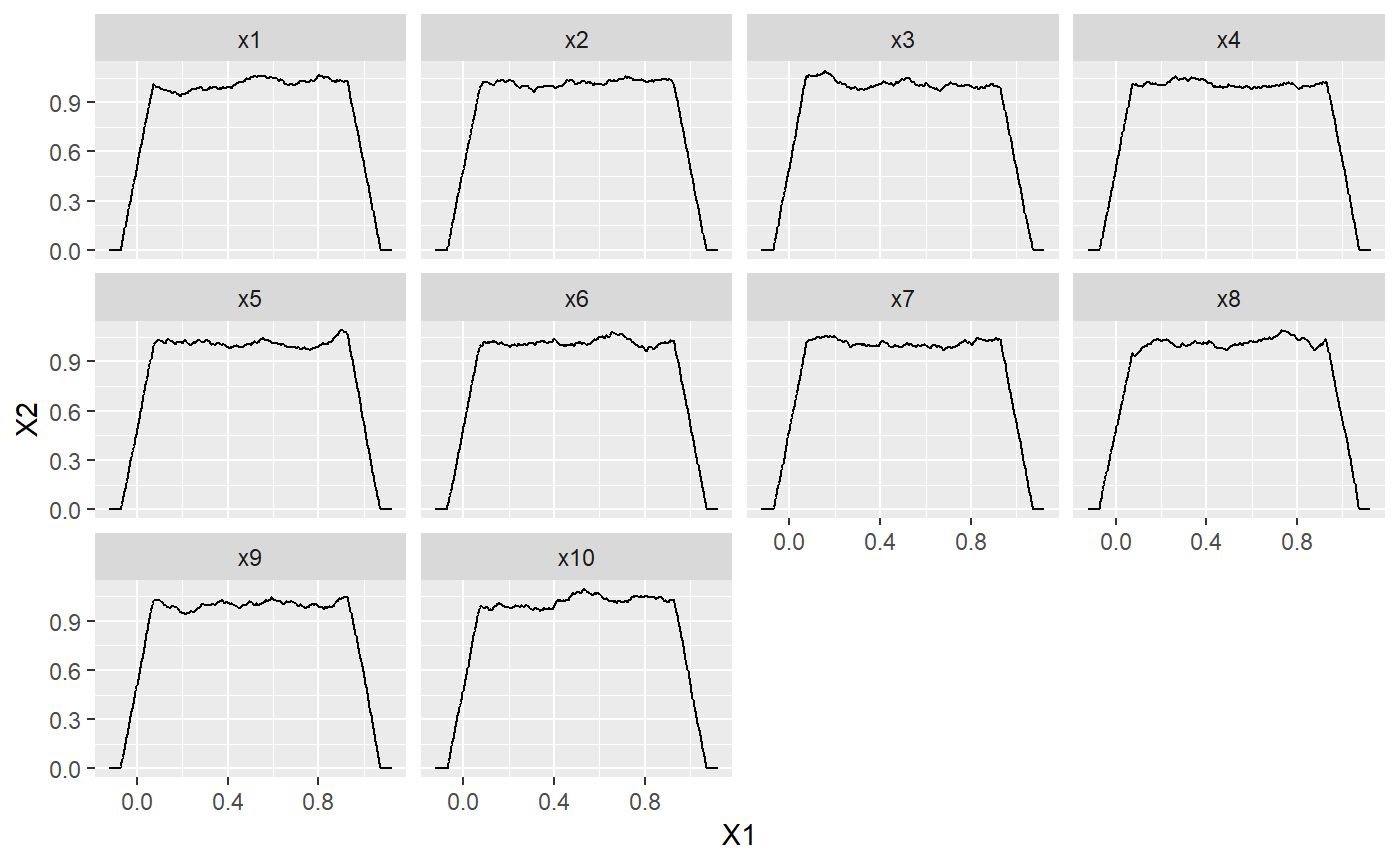
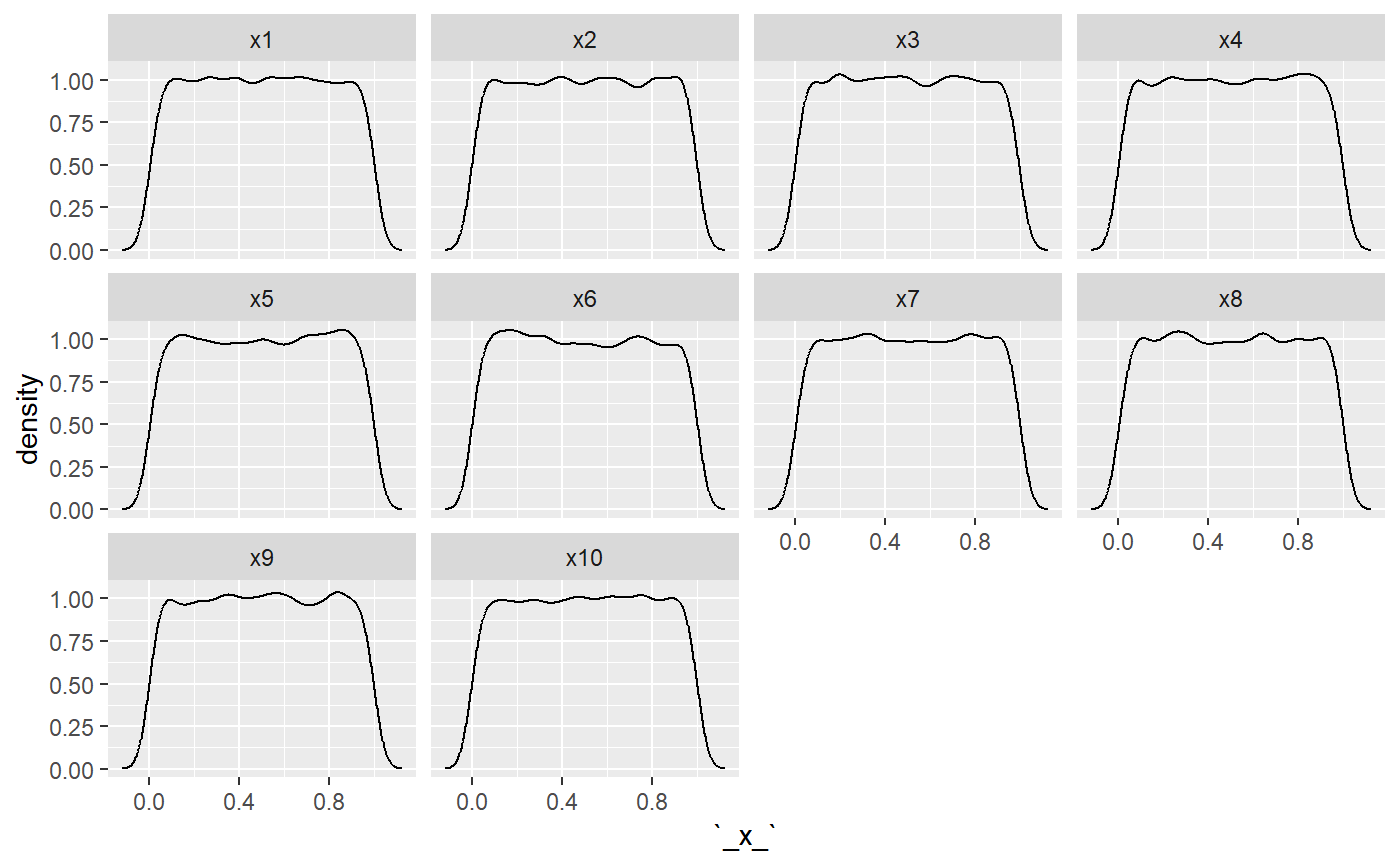
update site

diff --git a/docs/articles/problems-with-kernel-density-estimation.html b/docs/articles/problems-with-kernel-density-estimation.html
@@ -76,7 +76,7 @@
       <h1>Problems with kernel density estimation</h1>
                         <h4 class="author">Anna Kozak</h4>
             
-            <h4 class="date">2019-03-05</h4>
+            <h4 class="date">2019-03-06</h4>
       
       
       <div class="hidden name"><code>problems-with-kernel-density-estimation.Rmd</code></div>
@@ -116,14 +116,14 @@ g &lt;-<span class="st"> </span><span class="kw">ldply</span>(gestosc, data.fram
 g<span class="op">$</span>X1 &lt;-<span class="st"> </span><span class="kw"><a href="https://www.rdocumentation.org/packages/base/topics/numeric">as.numeric</a></span>(<span class="kw"><a href="https://www.rdocumentation.org/packages/base/topics/character">as.character</a></span>(g<span class="op">$</span>X1))
 g<span class="op">$</span>X2 &lt;-<span class="st"> </span><span class="kw"><a href="https://www.rdocumentation.org/packages/base/topics/numeric">as.numeric</a></span>(<span class="kw"><a href="https://www.rdocumentation.org/packages/base/topics/character">as.character</a></span>(g<span class="op">$</span>X2))
 
-<span class="kw">ggplot</span>(g, <span class="kw">aes</span>(<span class="dt">x =</span> X1, <span class="dt">y =</span> X2)) <span class="op">+</span><span class="st"> </span><span class="kw">geom_line</span>() <span class="op">+</span><span class="st"> </span><span class="kw">facet_wrap</span>(<span class="op">~</span>X3) <span class="op">+</span><span class="st"> </span><span class="kw">labs</span>(<span class="dt">x =</span> <span class="st">"value"</span>, <span class="dt">y =</span> <span class="st">"density"</span>)</code></pre></div>
-<p><img src="problems-with-kernel-density-estimation_files/figure-html/unnamed-chunk-2-1.png" width="700"></p>
+<span class="kw">ggplot</span>(g, <span class="kw">aes</span>(<span class="dt">x =</span> X1, <span class="dt">y =</span> X2)) <span class="op">+</span><span class="st"> </span><span class="kw">geom_line</span>() <span class="op">+</span><span class="st"> </span><span class="kw">facet_wrap</span>(<span class="op">~</span>X3) <span class="op">+</span><span class="st"> </span><span class="kw">labs</span>(<span class="dt">x =</span> <span class="st">"`_x_`"</span>, <span class="dt">y =</span> <span class="st">"density"</span>)</code></pre></div>
+<p><img src="problems-with-kernel-density-estimation_files/figure-html/unnamed-chunk-3-1.png" width="700"></p>
 </div>
-<div id="uniform-kernel" class="section level4">
+<div id="gaussian-kernel-with-bw-sj" class="section level4">
 <h4 class="hasAnchor">
-<a href="#uniform-kernel" class="anchor"></a>Uniform Kernel</h4>
+<a href="#gaussian-kernel-with-bw-sj" class="anchor"></a>Gaussian Kernel with bw = “SJ”</h4>
 <div class="sourceCode"><pre class="sourceCode r"><code class="sourceCode r">variableDensity &lt;-<span class="st"> </span><span class="kw"><a href="https://www.rdocumentation.org/packages/base/topics/apply">apply</a></span>(df, <span class="dv">2</span>, <span class="cf">function</span>(x){
-  dx &lt;-<span class="st"> </span><span class="kw"><a href="https://www.rdocumentation.org/packages/stats/topics/density">density</a></span>(x, <span class="dt">kernel =</span> <span class="st">"rectangular"</span>)
+  dx &lt;-<span class="st"> </span><span class="kw"><a href="https://www.rdocumentation.org/packages/stats/topics/density">density</a></span>(x, <span class="dt">bw =</span> <span class="st">"SJ"</span>)
 })
 
 ##for variable x1,...,x10
@@ -139,88 +139,197 @@ g1<span class="op">$</span>X1 &lt;-<span class="st"> </span><span class="kw"><a 
 g1<span class="op">$</span>X2 &lt;-<span class="st"> </span><span class="kw"><a href="https://www.rdocumentation.org/packages/base/topics/numeric">as.numeric</a></span>(<span class="kw"><a href="https://www.rdocumentation.org/packages/base/topics/character">as.character</a></span>(g1<span class="op">$</span>X2))
 
 
-<span class="kw">ggplot</span>(g1, <span class="kw">aes</span>(<span class="dt">x =</span> X1, <span class="dt">y =</span> X2)) <span class="op">+</span><span class="st"> </span><span class="kw">geom_line</span>() <span class="op">+</span><span class="st"> </span><span class="kw">facet_wrap</span>(<span class="op">~</span>X3)</code></pre></div>
-<p><img src="problems-with-kernel-density-estimation_files/figure-html/unnamed-chunk-3-1.png" width="700"></p>
-<div class="sourceCode"><pre class="sourceCode r"><code class="sourceCode r"><span class="co"># library("DALEX")</span>
-<span class="co"># library("randomForest")</span>
-<span class="co"># library("ceterisParibus")</span>
-<span class="co"># library(gridExtra)</span>
-<span class="co"># library(grid)</span>
-<span class="co"># set.seed(59)</span>
-<span class="co"># </span>
-<span class="co"># ##############################################</span>
-<span class="co"># ##############################################3</span>
-<span class="co"># ########################################3</span>
-<span class="co"># apartments_rf_model &lt;- randomForest(m2.price ~ construction.year + surface + floor +</span>
-<span class="co">#                                       no.rooms, data = apartments)</span>
-<span class="co"># </span>
-<span class="co"># explainer_rf &lt;- explain(apartments_rf_model,</span>
-<span class="co">#                         data = apartmentsTest[,2:5], y = apartmentsTest$m2.price)</span>
-<span class="co"># new_apartment &lt;- apartmentsTest[1, ]</span>
-<span class="co"># new_apartment</span>
-<span class="co"># cp_rf &lt;- ceteris_paribus(explainer_rf, observation = new_apartment[,2:5])</span>
-<span class="co"># cp_rf</span>
-<span class="co"># plot(cp_rf)</span>
-<span class="co"># </span>
-<span class="co"># </span>
-<span class="co"># #####  test cp plot #####################3</span>
-<span class="co"># cp_rf[which(cp_rf$`_vname_` == "no.rooms"), ] -&gt; j</span>
-<span class="co"># ggplot(j, aes(x = no.rooms, y = `_yhat_`)) + geom_line()</span>
-<span class="co"># ##############################</span>
-<span class="co"># jj &lt;- j[,c("no.rooms", '_yhat_')]</span>
-<span class="co"># jj_unique &lt;- unique(jj)</span>
-<span class="co"># ggplot(jj_unique, aes(x = no.rooms, y = `_yhat_`)) + geom_line()</span>
-<span class="co"># </span>
-<span class="co"># </span>
-<span class="co"># wyn2 &lt;- LocalVariableImportanceViaOscillations(cp_rf, absolute_deviation = TRUE, point = TRUE, density = TRUE, apartments[,2:5])</span>
-<span class="co"># wyn3 &lt;- LocalVariableImportanceViaOscillations(cp_rf,absolute_deviation = TRUE, point = TRUE, density = TRUE, apartments[,2:5], bw_density = "SJ")</span>
-<span class="co"># plot1(cp_rf, apartments[,2:5])</span>
-<span class="co"># plot2(cp_rf, apartments[,2:5])</span>
-<span class="co"># </span>
-<span class="co"># hist(apartments$no.rooms, breaks = 100)</span>
-<span class="co"># apar</span>
-<span class="co"># </span>
-<span class="co"># </span>
-<span class="co"># ####</span>
-<span class="co"># </span>
-<span class="co"># library(mlbench)</span>
-<span class="co"># library(plyr)</span>
-<span class="co"># library(ggplot2)</span>
-<span class="co"># </span>
-<span class="co"># data &lt;- mlbench.friedman1(10000)</span>
-<span class="co"># y &lt;- data$y</span>
-<span class="co"># x &lt;- data$x</span>
-<span class="co"># df &lt;- data.frame(y = y , x)</span>
-<span class="co"># names(df) &lt;- tolower(names(df))</span>
-<span class="co"># </span>
-<span class="co"># friedman_rf_model &lt;- randomForest(y ~., data = df)</span>
-<span class="co"># explainer_rf &lt;- explain(friedman_rf_model, data = df[,2:11], y =df$y)</span>
-<span class="co"># #mlbench.friedman1(1)</span>
-<span class="co"># new_friedmann &lt;- data.frame("y" = 8.924793, "x1" = 0.9002915, "x2" = 0.07000687, "x3" = 0.2255303,</span>
-<span class="co">#                             "x4" = 0.3825585, "x5" = 0.2023882, "x6" = 0.389687, "x7" = 0.04077074,</span>
-<span class="co">#                             "x8" = 0.2666487, "x9" = 0.144826, "x10" = 0.4970784)</span>
-<span class="co"># </span>
-<span class="co"># cp_rf &lt;- ceteris_paribus(explainer_rf, observations = new_friedmann[,2:11])</span>
-<span class="co"># </span>
-<span class="co"># cp_rf</span>
-<span class="co"># plot(cp_rf)</span>
-<span class="co"># </span>
-<span class="co"># wyn &lt;- LocalVariableImportanceViaOscillations(cp = cp_rf, df = df[2:11], absolute_deviation = TRUE, point = TRUE, density = TRUE, kernel_density = "gaussian", bw_density = "nrd0")</span>
-<span class="co"># wyn1 &lt;- LocalVariableImportanceViaOscillations(cp = cp_rf, df = df[2:11], absolute_deviation = TRUE, point = TRUE, density = TRUE, kernel_density = "gaussian", bw_density = "SJ")</span>
-<span class="co"># </span>
-<span class="co"># </span>
-<span class="co"># </span>
-<span class="co"># a &lt;- LocalVariableImportanceViaOscillations(cp_rf, absolute_deviation = TRUE, point = TRUE, density = TRUE, df[,2:11])</span>
-<span class="co"># b &lt;- LocalVariableImportanceViaOscillations1(cp_rf,absolute_deviation = TRUE, point = TRUE, density = TRUE, df[,2:11])</span>
-<span class="co"># plot(a, type="l")</span>
-<span class="co"># lines(b, col="red")</span>
-<span class="co"># plot1(cp_rf, df[,2:11])</span>
-<span class="co"># plot2(cp_rf, df[,2:11])</span>
-<span class="co"># </span>
-<span class="co"># </span>
-<span class="co"># p1 &lt;- vip(friedman_rf_model, method = "pdp", feature_names = paste0("x", 1:10)) +</span>
-<span class="co">#   labs(x = "", y = "Importance", title = "PDP method") +</span>
-<span class="co">#   theme_light()</span></code></pre></div>
+<span class="kw">ggplot</span>(g1, <span class="kw">aes</span>(<span class="dt">x =</span> X1, <span class="dt">y =</span> X2)) <span class="op">+</span><span class="st"> </span><span class="kw">geom_line</span>() <span class="op">+</span><span class="st"> </span><span class="kw">facet_wrap</span>(<span class="op">~</span>X3) <span class="op">+</span><span class="st"> </span><span class="kw">labs</span>(<span class="dt">x =</span> <span class="st">"`_x_`"</span>, <span class="dt">y =</span> <span class="st">"density"</span>)</code></pre></div>
+<p><img src="problems-with-kernel-density-estimation_files/figure-html/unnamed-chunk-4-1.png" width="700"></p>
+<div class="sourceCode"><pre class="sourceCode r"><code class="sourceCode r"><span class="kw"><a href="https://www.rdocumentation.org/packages/base/topics/library">library</a></span>(<span class="st">"DALEX"</span>)
+<span class="kw"><a href="https://www.rdocumentation.org/packages/base/topics/library">library</a></span>(<span class="st">"randomForest"</span>)
+<span class="kw"><a href="https://www.rdocumentation.org/packages/base/topics/library">library</a></span>(<span class="st">"ceterisParibus"</span>)
+<span class="kw"><a href="https://www.rdocumentation.org/packages/base/topics/library">library</a></span>(gridExtra)
+<span class="kw"><a href="https://www.rdocumentation.org/packages/base/topics/library">library</a></span>(grid)
+<span class="kw"><a href="https://www.rdocumentation.org/packages/base/topics/Random">set.seed</a></span>(<span class="dv">59</span>)</code></pre></div>
+<div id="local-variable-importance-via-oscillations-kernel-gaussian-bw-nrd0" class="section level5">
+<h5 class="hasAnchor">
+<a href="#local-variable-importance-via-oscillations-kernel-gaussian-bw-nrd0" class="anchor"></a>Local Variable Importance Via Oscillations, kernel = “gaussian”, bw = “nrd0”</h5>
+<div class="sourceCode"><pre class="sourceCode r"><code class="sourceCode r">friedman_rf_model &lt;-<span class="st"> </span><span class="kw">randomForest</span>(y <span class="op">~</span>., <span class="dt">data =</span> df)
+explainer_rf &lt;-<span class="st"> </span><span class="kw">explain</span>(friedman_rf_model, <span class="dt">data =</span> df[,<span class="dv">2</span><span class="op">:</span><span class="dv">11</span>], <span class="dt">y =</span>df<span class="op">$</span>y)
+new_friedmann &lt;-<span class="st"> </span><span class="kw"><a href="https://www.rdocumentation.org/packages/base/topics/data.frame">data.frame</a></span>(<span class="st">"y"</span> =<span class="st"> </span><span class="fl">8.924793</span>, <span class="st">"x1"</span> =<span class="st"> </span><span class="fl">0.9002915</span>, <span class="st">"x2"</span> =<span class="st"> </span><span class="fl">0.07000687</span>, <span class="st">"x3"</span> =<span class="st"> </span><span class="fl">0.2255303</span>,
+                            <span class="st">"x4"</span> =<span class="st"> </span><span class="fl">0.3825585</span>, <span class="st">"x5"</span> =<span class="st"> </span><span class="fl">0.2023882</span>, <span class="st">"x6"</span> =<span class="st"> </span><span class="fl">0.389687</span>, <span class="st">"x7"</span> =<span class="st"> </span><span class="fl">0.04077074</span>,
+                            <span class="st">"x8"</span> =<span class="st"> </span><span class="fl">0.2666487</span>, <span class="st">"x9"</span> =<span class="st"> </span><span class="fl">0.144826</span>, <span class="st">"x10"</span> =<span class="st"> </span><span class="fl">0.4970784</span>)
+
+cp_rf &lt;-<span class="st"> </span><span class="kw">ceteris_paribus</span>(explainer_rf, <span class="dt">observations =</span> new_friedmann[,<span class="dv">2</span><span class="op">:</span><span class="dv">11</span>])
+
+<span class="kw"><a href="../reference/plot.html">plot</a></span>(cp_rf)</code></pre></div>
+<p><img src="problems-with-kernel-density-estimation_files/figure-html/unnamed-chunk-6-1.png" width="700"></p>
+<div class="sourceCode"><pre class="sourceCode r"><code class="sourceCode r">wyn &lt;-<span class="st"> </span><span class="kw"><a href="../reference/LocalVariableImportanceViaOscillations.html">LocalVariableImportanceViaOscillations</a></span>(<span class="dt">cp =</span> cp_rf, <span class="dt">df =</span> df[, <span class="dv">2</span><span class="op">:</span><span class="dv">11</span>])
+<span class="co">#&gt; Local Variable Importance Via Oscillations with parameters: </span>
+<span class="co">#&gt; absolute_deviation =  TRUE </span>
+<span class="co">#&gt; point =  TRUE </span>
+<span class="co">#&gt; density =  FALSE </span>
+<span class="co">#&gt; kernel_density =  gaussian </span>
+<span class="co">#&gt; bw_density =  nrd0 </span>
+<span class="co">#&gt; </span>
+<span class="co">#&gt; Results: </span>
+<span class="co">#&gt; x1: 35.0514916972774</span>
+<span class="co">#&gt;  x2: 510.554030709738</span>
+<span class="co">#&gt;  x3: 93.3703495182047</span>
+<span class="co">#&gt;  x4: 254.097614518194</span>
+<span class="co">#&gt;  x5: 182.001680337295</span>
+<span class="co">#&gt;  x6: 3.36191797793769</span>
+<span class="co">#&gt;  x7: 15.5619443925594</span>
+<span class="co">#&gt;  x8: 6.61663628342901</span>
+<span class="co">#&gt;  x9: 9.14760492541785</span>
+<span class="co">#&gt;  x10: 6.34163715274263</span>
+<span class="kw">ggplot</span>(wyn<span class="op">$</span>result, <span class="kw">aes</span>(<span class="dt">x =</span> variable_name, <span class="dt">y =</span> measure)) <span class="op">+</span><span class="st"> </span><span class="kw">geom_bar</span>(<span class="dt">stat=</span><span class="st">"identity"</span>) <span class="op">+</span><span class="st"> </span><span class="kw">labs</span>(<span class="dt">x =</span> <span class="st">"`_x_`"</span>, <span class="dt">y =</span> <span class="st">"measure"</span>)</code></pre></div>
+<p><img src="problems-with-kernel-density-estimation_files/figure-html/unnamed-chunk-7-1.png" width="700"></p>
+</div>
+<div id="local-variable-importance-via-oscillations-kernel-gaussian-bw-sj-link" class="section level5">
+<h5 class="hasAnchor">
+<a href="#local-variable-importance-via-oscillations-kernel-gaussian-bw-sj-link" class="anchor"></a>Local Variable Importance Via Oscillations, kernel = “gaussian”, bw = “SJ” <a href="https://www.researchgate.net/publication/224817413_A_Reliable_Data-Based_Bandwidth_Selection_Method_for_Kernel_Density_Estimation">link</a>
+</h5>
+<div class="sourceCode"><pre class="sourceCode r"><code class="sourceCode r">wyn1 &lt;-<span class="st"> </span><span class="kw"><a href="../reference/LocalVariableImportanceViaOscillations.html">LocalVariableImportanceViaOscillations</a></span>(<span class="dt">cp =</span> cp_rf, <span class="dt">df =</span> df[,<span class="dv">2</span><span class="op">:</span><span class="dv">11</span>], <span class="dt">kernel =</span> <span class="st">"rectangular"</span>, <span class="dt">bw_density =</span> <span class="st">"SJ"</span>)
+<span class="co">#&gt; Local Variable Importance Via Oscillations with parameters: </span>
+<span class="co">#&gt; absolute_deviation =  TRUE </span>
+<span class="co">#&gt; point =  TRUE </span>
+<span class="co">#&gt; density =  FALSE </span>
+<span class="co">#&gt; kernel_density =  rectangular </span>
+<span class="co">#&gt; bw_density =  SJ </span>
+<span class="co">#&gt; </span>
+<span class="co">#&gt; Results: </span>
+<span class="co">#&gt; x1: 35.0514916972774</span>
+<span class="co">#&gt;  x2: 510.554030709738</span>
+<span class="co">#&gt;  x3: 93.3703495182047</span>
+<span class="co">#&gt;  x4: 254.097614518194</span>
+<span class="co">#&gt;  x5: 182.001680337295</span>
+<span class="co">#&gt;  x6: 3.36191797793769</span>
+<span class="co">#&gt;  x7: 15.5619443925594</span>
+<span class="co">#&gt;  x8: 6.61663628342901</span>
+<span class="co">#&gt;  x9: 9.14760492541785</span>
+<span class="co">#&gt;  x10: 6.34163715274263</span>
+<span class="kw">ggplot</span>(wyn1<span class="op">$</span>result, <span class="kw">aes</span>(<span class="dt">x =</span> variable_name, <span class="dt">y =</span> measure)) <span class="op">+</span><span class="st"> </span><span class="kw">geom_bar</span>(<span class="dt">stat=</span><span class="st">"identity"</span>) <span class="op">+</span><span class="st"> </span><span class="kw">labs</span>(<span class="dt">x =</span> <span class="st">"`_x_`"</span>, <span class="dt">y =</span> <span class="st">"measure"</span>)</code></pre></div>
+<p><img src="problems-with-kernel-density-estimation_files/figure-html/unnamed-chunk-8-1.png" width="700"></p>
+</div>
+</div>
+</div>
+<div id="apartments-data" class="section level2">
+<h2 class="hasAnchor">
+<a href="#apartments-data" class="anchor"></a>Apartments data</h2>
+<div class="sourceCode"><pre class="sourceCode r"><code class="sourceCode r"><span class="kw"><a href="https://www.rdocumentation.org/packages/utils/topics/data">data</a></span>(apartments)
+apartments_rf_model &lt;-<span class="st"> </span><span class="kw">randomForest</span>(m2.price <span class="op">~</span><span class="st"> </span>construction.year <span class="op">+</span><span class="st"> </span>surface <span class="op">+</span><span class="st"> </span>floor <span class="op">+</span>
+<span class="st">                                       </span>no.rooms, <span class="dt">data =</span> apartments)
+
+explainer_rf &lt;-<span class="st"> </span><span class="kw">explain</span>(apartments_rf_model,
+                        <span class="dt">data =</span> apartmentsTest[,<span class="dv">2</span><span class="op">:</span><span class="dv">5</span>], <span class="dt">y =</span> apartmentsTest<span class="op">$</span>m2.price)
+new_apartment &lt;-<span class="st"> </span>apartmentsTest[<span class="dv">1</span>, ]
+new_apartment
+<span class="co">#&gt;      m2.price construction.year surface floor no.rooms    district</span>
+<span class="co">#&gt; 1001     4644              1976     131     3        5 Srodmiescie</span>
+cp_rf &lt;-<span class="st"> </span><span class="kw">ceteris_paribus</span>(explainer_rf, <span class="dt">observation =</span> new_apartment[,<span class="dv">2</span><span class="op">:</span><span class="dv">5</span>])
+<span class="kw"><a href="../reference/plot.html">plot</a></span>(cp_rf)</code></pre></div>
+<p><img src="problems-with-kernel-density-estimation_files/figure-html/unnamed-chunk-9-1.png" width="700"></p>
+<div id="density-of-variable" class="section level3">
+<h3 class="hasAnchor">
+<a href="#density-of-variable" class="anchor"></a>Density of variable</h3>
+<div id="histogram" class="section level4">
+<h4 class="hasAnchor">
+<a href="#histogram" class="anchor"></a>Histogram</h4>
+<div class="sourceCode"><pre class="sourceCode r"><code class="sourceCode r">dane_ &lt;-<span class="st"> </span><span class="kw"><a href="https://www.rdocumentation.org/packages/base/topics/list">list</a></span>()
+j &lt;-<span class="st"> </span><span class="dv">1</span>
+<span class="cf">for</span>(i <span class="cf">in</span> <span class="kw"><a href="https://www.rdocumentation.org/packages/base/topics/names">names</a></span>(apartments)){
+  dane_[[j]] &lt;-<span class="st"> </span><span class="kw"><a href="https://www.rdocumentation.org/packages/base/topics/data.frame">data.frame</a></span>(<span class="kw"><a href="https://www.rdocumentation.org/packages/base/topics/cbind">cbind</a></span>(apartments[,i], <span class="kw"><a href="https://www.rdocumentation.org/packages/base/topics/rep">rep</a></span>(i, <span class="kw"><a href="https://www.rdocumentation.org/packages/base/topics/nrow">nrow</a></span>(apartments))))
+  j &lt;-<span class="st"> </span>j <span class="op">+</span><span class="dv">1</span>
+}
+
+dane_<span class="dv">1</span> &lt;-<span class="st"> </span><span class="kw">ldply</span>(dane_, data.frame)
+dane_<span class="dv">1</span><span class="op">$</span>X1 &lt;-<span class="st"> </span><span class="kw"><a href="https://www.rdocumentation.org/packages/base/topics/numeric">as.numeric</a></span>(<span class="kw"><a href="https://www.rdocumentation.org/packages/base/topics/character">as.character</a></span>(dane_<span class="dv">1</span><span class="op">$</span>X1))
+
+<span class="kw">ggplot</span>(dane_<span class="dv">1</span>, <span class="kw">aes</span>(<span class="dt">x=</span>X1)) <span class="op">+</span><span class="st"> </span><span class="kw">geom_histogram</span>(<span class="dt">bins=</span><span class="dv">100</span>) <span class="op">+</span><span class="st"> </span><span class="kw">facet_wrap</span>(<span class="op">~</span>X2, <span class="dt">scales =</span> <span class="st">"free"</span>) <span class="op">+</span><span class="st"> </span><span class="kw">labs</span>(<span class="dt">x =</span> <span class="st">"`_x_`"</span>, <span class="dt">y =</span> <span class="st">"count"</span>)</code></pre></div>
+<p><img src="problems-with-kernel-density-estimation_files/figure-html/unnamed-chunk-10-1.png" width="700"></p>
+</div>
+<div id="density-with-gaussian-kernel" class="section level4">
+<h4 class="hasAnchor">
+<a href="#density-with-gaussian-kernel" class="anchor"></a>Density with gaussian kernel</h4>
+<div class="sourceCode"><pre class="sourceCode r"><code class="sourceCode r"><span class="kw"><a href="https://www.rdocumentation.org/packages/utils/topics/data">data</a></span>(<span class="st">"apartments"</span>)
+
+variableDensity &lt;-<span class="st"> </span><span class="kw"><a href="https://www.rdocumentation.org/packages/base/topics/apply">apply</a></span>(apartments[<span class="dv">1</span><span class="op">:</span><span class="dv">5</span>], <span class="dv">2</span>, <span class="cf">function</span>(x){
+  dx &lt;-<span class="st"> </span><span class="kw"><a href="https://www.rdocumentation.org/packages/stats/topics/density">density</a></span>(x, <span class="dt">kernel =</span> <span class="st">"gaussian"</span>)
+})
+
+gestosc &lt;-<span class="st"> </span><span class="kw"><a href="https://www.rdocumentation.org/packages/base/topics/list">list</a></span>()
+j &lt;-<span class="st"> </span><span class="dv">1</span>
+<span class="cf">for</span>(i <span class="cf">in</span> <span class="kw"><a href="https://www.rdocumentation.org/packages/base/topics/c">c</a></span>(<span class="kw"><a href="https://www.rdocumentation.org/packages/base/topics/names">names</a></span>(apartments)[<span class="dv">1</span><span class="op">:</span><span class="dv">5</span>])){
+  gestosc[[j]] &lt;-<span class="st"> </span><span class="kw"><a href="https://www.rdocumentation.org/packages/base/topics/data.frame">data.frame</a></span>(<span class="kw"><a href="https://www.rdocumentation.org/packages/base/topics/cbind">cbind</a></span>(variableDensity[[i]][[<span class="st">"x"</span>]], variableDensity[[i]][[<span class="st">"y"</span>]], <span class="kw"><a href="https://www.rdocumentation.org/packages/base/topics/rep">rep</a></span>(i, <span class="kw"><a href="https://www.rdocumentation.org/packages/base/topics/length">length</a></span>(variableDensity[[i]][[<span class="st">"x"</span>]]))))
+  j &lt;-<span class="st"> </span>j <span class="op">+</span><span class="st"> </span><span class="dv">1</span>
+}
+
+g &lt;-<span class="st"> </span><span class="kw">ldply</span>(gestosc, data.frame)
+g<span class="op">$</span>X1 &lt;-<span class="st"> </span><span class="kw"><a href="https://www.rdocumentation.org/packages/base/topics/numeric">as.numeric</a></span>(<span class="kw"><a href="https://www.rdocumentation.org/packages/base/topics/character">as.character</a></span>(g<span class="op">$</span>X1))
+g<span class="op">$</span>X2 &lt;-<span class="st"> </span><span class="kw"><a href="https://www.rdocumentation.org/packages/base/topics/numeric">as.numeric</a></span>(<span class="kw"><a href="https://www.rdocumentation.org/packages/base/topics/character">as.character</a></span>(g<span class="op">$</span>X2))
+
+<span class="kw">ggplot</span>(g, <span class="kw">aes</span>(<span class="dt">x =</span> X1, <span class="dt">y =</span> X2)) <span class="op">+</span><span class="st"> </span><span class="kw">geom_line</span>() <span class="op">+</span><span class="kw">facet_wrap</span>(<span class="op">~</span>X3, <span class="dt">scales=</span><span class="st">'free'</span>)</code></pre></div>
+<p><img src="problems-with-kernel-density-estimation_files/figure-html/unnamed-chunk-11-1.png" width="700"></p>
+</div>
+<div id="density-with-gaussian-kernel-and-bw-sj" class="section level4">
+<h4 class="hasAnchor">
+<a href="#density-with-gaussian-kernel-and-bw-sj" class="anchor"></a>Density with gaussian kernel and bw = SJ</h4>
+<div class="sourceCode"><pre class="sourceCode r"><code class="sourceCode r"><span class="kw"><a href="https://www.rdocumentation.org/packages/utils/topics/data">data</a></span>(<span class="st">"apartments"</span>)
+
+variableDensity &lt;-<span class="st"> </span><span class="kw"><a href="https://www.rdocumentation.org/packages/base/topics/apply">apply</a></span>(apartments[<span class="dv">1</span><span class="op">:</span><span class="dv">5</span>], <span class="dv">2</span>, <span class="cf">function</span>(x){
+  dx &lt;-<span class="st"> </span><span class="kw"><a href="https://www.rdocumentation.org/packages/stats/topics/density">density</a></span>(x, <span class="dt">kernel =</span> <span class="st">"gaussian"</span>, <span class="dt">bw =</span> <span class="st">"SJ"</span>)
+})
+
+gestosc &lt;-<span class="st"> </span><span class="kw"><a href="https://www.rdocumentation.org/packages/base/topics/list">list</a></span>()
+j &lt;-<span class="st"> </span><span class="dv">1</span>
+<span class="cf">for</span>(i <span class="cf">in</span> <span class="kw"><a href="https://www.rdocumentation.org/packages/base/topics/c">c</a></span>(<span class="kw"><a href="https://www.rdocumentation.org/packages/base/topics/names">names</a></span>(apartments)[<span class="dv">1</span><span class="op">:</span><span class="dv">5</span>])){
+  gestosc[[j]] &lt;-<span class="st"> </span><span class="kw"><a href="https://www.rdocumentation.org/packages/base/topics/data.frame">data.frame</a></span>(<span class="kw"><a href="https://www.rdocumentation.org/packages/base/topics/cbind">cbind</a></span>(variableDensity[[i]][[<span class="st">"x"</span>]], variableDensity[[i]][[<span class="st">"y"</span>]], <span class="kw"><a href="https://www.rdocumentation.org/packages/base/topics/rep">rep</a></span>(i, <span class="kw"><a href="https://www.rdocumentation.org/packages/base/topics/length">length</a></span>(variableDensity[[i]][[<span class="st">"x"</span>]]))))
+  j &lt;-<span class="st"> </span>j <span class="op">+</span><span class="st"> </span><span class="dv">1</span>
+}
+
+g &lt;-<span class="st"> </span><span class="kw">ldply</span>(gestosc, data.frame)
+g<span class="op">$</span>X1 &lt;-<span class="st"> </span><span class="kw"><a href="https://www.rdocumentation.org/packages/base/topics/numeric">as.numeric</a></span>(<span class="kw"><a href="https://www.rdocumentation.org/packages/base/topics/character">as.character</a></span>(g<span class="op">$</span>X1))
+g<span class="op">$</span>X2 &lt;-<span class="st"> </span><span class="kw"><a href="https://www.rdocumentation.org/packages/base/topics/numeric">as.numeric</a></span>(<span class="kw"><a href="https://www.rdocumentation.org/packages/base/topics/character">as.character</a></span>(g<span class="op">$</span>X2))
+
+<span class="kw">ggplot</span>(g, <span class="kw">aes</span>(<span class="dt">x =</span> X1, <span class="dt">y =</span> X2)) <span class="op">+</span><span class="st"> </span><span class="kw">geom_line</span>() <span class="op">+</span><span class="kw">facet_wrap</span>(<span class="op">~</span>X3, <span class="dt">scales=</span><span class="st">'free'</span>)</code></pre></div>
+<p><img src="problems-with-kernel-density-estimation_files/figure-html/unnamed-chunk-12-1.png" width="700"></p>
+<div id="local-variable-importance-via-oscillations-kernel-gaussian-bw-nrd0-1" class="section level5">
+<h5 class="hasAnchor">
+<a href="#local-variable-importance-via-oscillations-kernel-gaussian-bw-nrd0-1" class="anchor"></a>Local Variable Importance Via Oscillations, kernel = “gaussian”, bw = “nrd0”</h5>
+<div class="sourceCode"><pre class="sourceCode r"><code class="sourceCode r">wyn &lt;-<span class="st"> </span><span class="kw"><a href="../reference/LocalVariableImportanceViaOscillations.html">LocalVariableImportanceViaOscillations</a></span>(cp_rf, apartments[,<span class="dv">2</span><span class="op">:</span><span class="dv">5</span>])
+<span class="co">#&gt; Local Variable Importance Via Oscillations with parameters: </span>
+<span class="co">#&gt; absolute_deviation =  TRUE </span>
+<span class="co">#&gt; point =  TRUE </span>
+<span class="co">#&gt; density =  FALSE </span>
+<span class="co">#&gt; kernel_density =  gaussian </span>
+<span class="co">#&gt; bw_density =  nrd0 </span>
+<span class="co">#&gt; </span>
+<span class="co">#&gt; Results: </span>
+<span class="co">#&gt; construction.year: 12844.6829651284</span>
+<span class="co">#&gt;  surface: 28744.5326030378</span>
+<span class="co">#&gt;  floor: 32358.2072364485</span>
+<span class="co">#&gt;  no.rooms: 16032.7492764119</span>
+<span class="kw">ggplot</span>(wyn<span class="op">$</span>result, <span class="kw">aes</span>(<span class="dt">x =</span> variable_name, <span class="dt">y =</span> measure)) <span class="op">+</span><span class="st"> </span><span class="kw">geom_bar</span>(<span class="dt">stat=</span><span class="st">"identity"</span>) <span class="op">+</span><span class="st"> </span><span class="kw">labs</span>(<span class="dt">x =</span> <span class="st">"`_x_`"</span>, <span class="dt">y =</span> <span class="st">"measure"</span>)</code></pre></div>
+<p><img src="problems-with-kernel-density-estimation_files/figure-html/unnamed-chunk-13-1.png" width="700"></p>
+</div>
+<div id="local-variable-importance-via-oscillations-kernel-gaussian-bw-sj-link-1" class="section level5">
+<h5 class="hasAnchor">
+<a href="#local-variable-importance-via-oscillations-kernel-gaussian-bw-sj-link-1" class="anchor"></a>Local Variable Importance Via Oscillations, kernel = “gaussian”, bw = “SJ” <a href="https://www.researchgate.net/publication/224817413_A_Reliable_Data-Based_Bandwidth_Selection_Method_for_Kernel_Density_Estimation">link</a>
+</h5>
+<div class="sourceCode"><pre class="sourceCode r"><code class="sourceCode r">wyn1 &lt;-<span class="st"> </span><span class="kw"><a href="../reference/LocalVariableImportanceViaOscillations.html">LocalVariableImportanceViaOscillations</a></span>(cp_rf, apartments[,<span class="dv">2</span><span class="op">:</span><span class="dv">5</span>], <span class="dt">kernel =</span> <span class="st">"rectangular"</span>, <span class="dt">bw_density =</span> <span class="st">"SJ"</span>)
+<span class="co">#&gt; Local Variable Importance Via Oscillations with parameters: </span>
+<span class="co">#&gt; absolute_deviation =  TRUE </span>
+<span class="co">#&gt; point =  TRUE </span>
+<span class="co">#&gt; density =  FALSE </span>
+<span class="co">#&gt; kernel_density =  rectangular </span>
+<span class="co">#&gt; bw_density =  SJ </span>
+<span class="co">#&gt; </span>
+<span class="co">#&gt; Results: </span>
+<span class="co">#&gt; construction.year: 12844.6829651284</span>
+<span class="co">#&gt;  surface: 28744.5326030378</span>
+<span class="co">#&gt;  floor: 32358.2072364485</span>
+<span class="co">#&gt;  no.rooms: 16032.7492764119</span>
+<span class="kw">ggplot</span>(wyn1<span class="op">$</span>result, <span class="kw">aes</span>(<span class="dt">x =</span> variable_name, <span class="dt">y =</span> measure)) <span class="op">+</span><span class="st"> </span><span class="kw">geom_bar</span>(<span class="dt">stat=</span><span class="st">"identity"</span>) <span class="op">+</span><span class="st"> </span><span class="kw">labs</span>(<span class="dt">x =</span> <span class="st">"`_x_`"</span>, <span class="dt">y =</span> <span class="st">"measure"</span>)</code></pre></div>
+<p><img src="problems-with-kernel-density-estimation_files/figure-html/unnamed-chunk-14-1.png" width="700"></p>
+</div>
+</div>
 </div>
 </div>
   </div>
@@ -231,6 +340,7 @@ g1<span class="op">$</span>X2 &lt;-<span class="st"> </span><span class="kw"><a 
 <a href="#tocnav" class="anchor"></a>Contents</h2>
       <ul class="nav nav-pills nav-stacked">
 <li><a href="#friedmann-regression-problem">Friedmann regression problem</a></li>
+      <li><a href="#apartments-data">Apartments data</a></li>
       </ul>
 </div>
       </div>

diff --git a/docs/reference/LocalVariableImportanceViaOscillations.html b/docs/reference/LocalVariableImportanceViaOscillations.html
@@ -121,7 +121,8 @@
     </div>
 
     <pre class="usage"><span class='fu'>LocalVariableImportanceViaOscillations</span>(<span class='no'>cp</span>, <span class='no'>df</span>, <span class='kw'>absolute_deviation</span> <span class='kw'>=</span> <span class='fl'>TRUE</span>,
-  <span class='kw'>point</span> <span class='kw'>=</span> <span class='fl'>TRUE</span>, <span class='kw'>density</span> <span class='kw'>=</span> <span class='fl'>FALSE</span>)</pre>
+  <span class='kw'>point</span> <span class='kw'>=</span> <span class='fl'>TRUE</span>, <span class='kw'>density</span> <span class='kw'>=</span> <span class='fl'>FALSE</span>, <span class='kw'>kernel_density</span> <span class='kw'>=</span> <span class='st'>"gaussian"</span>,
+  <span class='kw'>bw_density</span> <span class='kw'>=</span> <span class='st'>"nrd0"</span>)</pre>
     
     <h2 class="hasAnchor" id="arguments"><a class="anchor" href="#arguments"></a>Arguments</h2>
     <table class="ref-arguments">
